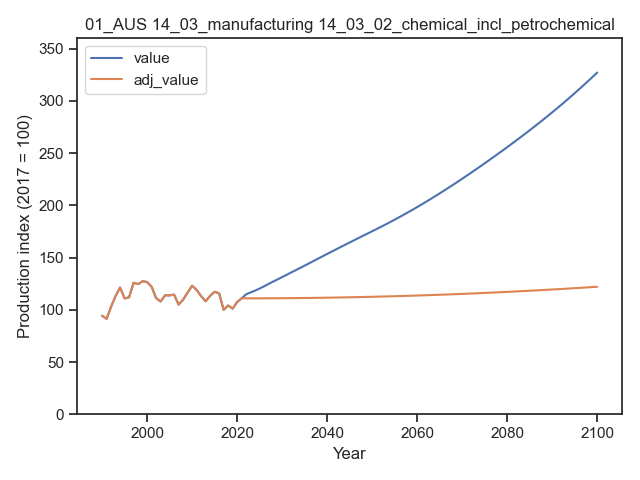
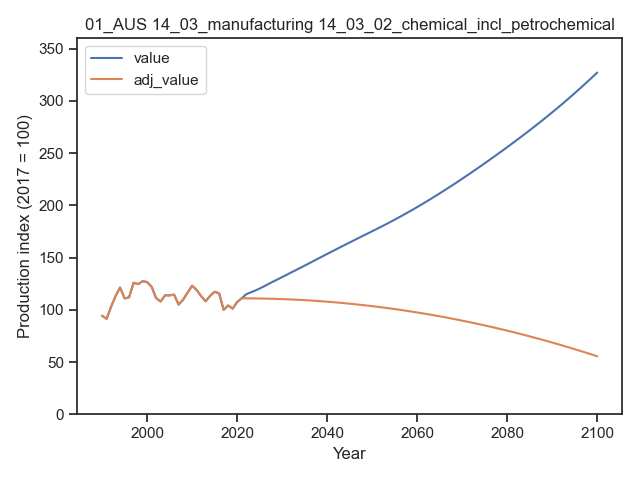
25Jan_updates

diff --git a/workflow/scripts/d3_trajectory_refine.py b/workflow/scripts/d3_trajectory_refine.py
@@ -57,7 +57,7 @@ industry_traj(economy = '01_AUS', sub1sectors = ind1[2], sub2sectors = ind2[0], 
 
 # Chemicals
 industry_traj(economy = '01_AUS', sub1sectors = ind1[2], sub2sectors = ind2[1], proj_start_year = 2021,
-              shape = 'increase', magnitude = 1.1, data = industry_interim)
+              shape = 'increase', magnitude = 0.5, data = industry_interim)
 
 # Non-ferrous metals
 industry_traj(economy = '01_AUS', sub1sectors = ind1[2], sub2sectors = ind2[2], proj_start_year = 2025,
@@ -97,7 +97,7 @@ industry_traj(economy = '01_AUS', sub1sectors = ind1[2], sub2sectors = ind2[10],
 
 # Non-energy: no adjustment
 nonenergy_traj(economy = '01_AUS', proj_start_year = 2021,
-              shape = 'increase', magnitude = 1.1, data = nonenergy_production)
+              shape = 'increase', magnitude = 0.5, data = nonenergy_production)
 
 ############################################################################################################
 # Brunei
@@ -208,8 +208,8 @@ industry_traj(economy = '05_PRC', sub1sectors = ind1[2], sub2sectors = ind2[10],
               shape = 'peak', magnitude = 0.55, apex_mag = 1.9, apex_loc = 10, data = industry_interim)
 
 # Non-energy: no adjustment
-nonenergy_traj(economy = '05_PRC', proj_start_year = 2030,
-              shape = 'decrease', magnitude = 0.3, data = nonenergy_production)
+nonenergy_traj(economy = '05_PRC', proj_start_year = 2023,
+              shape = 'peak', magnitude = 0.8, apex_mag = 1.4, apex_loc = 10, data = nonenergy_production)
 
 # HKC
 
@@ -437,61 +437,43 @@ industry_traj(economy = '09_ROK', sub1sectors = ind1[2], sub2sectors = ind2[9], 
 # Peru
 
 ############################################## Philippines #####################################################
-# Mining
-industry_traj(economy = '15_PHL', sub1sectors = ind1[0], sub2sectors = 'x', proj_start_year = 2070,
-              shape = 'decrease', magnitude = 1.3, apex_mag = 1.5, apex_loc = 20, data = industry_interim)
+# Mining: no adjustment
 
 # Construction
-industry_traj(economy = '15_PHL', sub1sectors = ind1[1], sub2sectors = 'x', proj_start_year = 2070,
-              shape = 'decrease', magnitude = 1.3, apex_mag = 1.5, apex_loc = 20, data = industry_interim) 
+industry_traj(economy = '15_RP', sub1sectors = ind1[1], sub2sectors = 'x', proj_start_year = 2025,
+              shape = 'decrease', magnitude = 3.5, data = industry_interim) 
 
-# Steel
-industry_traj(economy = '15_PHL', sub1sectors = ind1[2], sub2sectors = ind2[0], proj_start_year = 2025,
-              shape = 'decrease', magnitude = 1.05, data = industry_interim)
+# Steel: no adjustment
 
 # Chemicals
-industry_traj(economy = '15_PHL', sub1sectors = ind1[2], sub2sectors = ind2[1], proj_start_year = 2021,
-              shape = 'increase', magnitude = 1.1, data = industry_interim)
+industry_traj(economy = '15_RP', sub1sectors = ind1[2], sub2sectors = ind2[1], proj_start_year = 2024,
+              shape = 'decrease', magnitude = 4, data = industry_interim)
 
-# Non-ferrous metals
-industry_traj(economy = '15_PHL', sub1sectors = ind1[2], sub2sectors = ind2[2], proj_start_year = 2025,
-              shape = 'increase', magnitude = 1.25, data = industry_interim)
+# Non-ferrous metals: no data
 
 # Non-metallic minerals
-industry_traj(economy = '15_PHL', sub1sectors = ind1[2], sub2sectors = ind2[3], proj_start_year = 2021,
-              shape = 'decrease', magnitude = 1.6, data = industry_interim)
+industry_traj(economy = '15_RP', sub1sectors = ind1[2], sub2sectors = ind2[3], proj_start_year = 2024,
+              shape = 'decrease', magnitude = 2.5, data = industry_interim)
 
-# Transportation equipment
-industry_traj(economy = '15_PHL', sub1sectors = ind1[2], sub2sectors = ind2[4], proj_start_year = 2021,
-              shape = 'bottom', magnitude = 1.4, apex_mag = 0.9, apex_loc = 40, data = industry_interim)
+# Transportation equipment: no adjustment
 
-# Machinery
-industry_traj(economy = '15_PHL', sub1sectors = ind1[2], sub2sectors = ind2[5], proj_start_year = 2021,
-              shape = 'bottom', magnitude = 1.4, apex_mag = 0.9, apex_loc = 40, data = industry_interim)
+# Machinery: no adjustment
 
-# Food and beverages
-industry_traj(economy = '15_PHL', sub1sectors = ind1[2], sub2sectors = ind2[6], proj_start_year = 2021,
-              shape = 'bottom', magnitude = 1.4, apex_mag = 0.9, apex_loc = 40, data = industry_interim)
+# Food and beverages: no adjustment
 
-# Pulp and paper
-industry_traj(economy = '15_PHL', sub1sectors = ind1[2], sub2sectors = ind2[7], proj_start_year = 2021,
-              shape = 'bottom', magnitude = 1.4, apex_mag = 0.9, apex_loc = 40, data = industry_interim)
+# Pulp and paper: no adjustment
 
-# Wood and wood products
-industry_traj(economy = '15_PHL', sub1sectors = ind1[2], sub2sectors = ind2[8], proj_start_year = 2021,
-              shape = 'bottom', magnitude = 1.4, apex_mag = 0.9, apex_loc = 40, data = industry_interim)
+# Wood and wood products: no adjustment
 
-# Textiles
-industry_traj(economy = '15_PHL', sub1sectors = ind1[2], sub2sectors = ind2[9], proj_start_year = 2021,
-              shape = 'decrease', magnitude = 0.9, data = industry_interim)
+# Textiles: no adjustment
 
 # Non-specified
-industry_traj(economy = '15_PHL', sub1sectors = ind1[2], sub2sectors = ind2[10], proj_start_year = 2030,
+industry_traj(economy = '15_RP', sub1sectors = ind1[2], sub2sectors = ind2[10], proj_start_year = 2050,
               shape = 'decrease', magnitude = 1.8, data = industry_interim)
 
 # Non-energy: no adjustment
-nonenergy_traj(economy = '15_PHL', proj_start_year = 2021,
-               shape = 'increase', magnitude = 1.1, data = nonenergy_production)
+nonenergy_traj(economy = '15_RP', proj_start_year = 2024,
+               shape = 'decrease', magnitude = 4, data = nonenergy_production)
 
 
 # Russia
@@ -651,7 +633,58 @@ industry_traj(economy = '20_USA', sub1sectors = ind1[2], sub2sectors = ind2[9], 
 # Non-energy: no adjustment
 
 
-# VN
+############################################ VN ################################################################
+# Mining
+industry_traj(economy = '21_VN', sub1sectors = ind1[0], sub2sectors = 'x', proj_start_year = 2025,
+              shape = 'decrease', magnitude = 4, data = industry_interim)
+
+# Construction
+industry_traj(economy = '21_VN', sub1sectors = ind1[1], sub2sectors = 'x', proj_start_year = 2040,
+              shape = 'decrease', magnitude = 2, data = industry_interim) 
+
+# Steel
+industry_traj(economy = '21_VN', sub1sectors = ind1[2], sub2sectors = ind2[0], proj_start_year = 2024,
+              shape = 'decrease', magnitude = 4, data = industry_interim)
+
+# Chemicals
+industry_traj(economy = '21_VN', sub1sectors = ind1[2], sub2sectors = ind2[1], proj_start_year = 2030,
+              shape = 'decrease', magnitude = 2.5, data = industry_interim)
+
+# Non-ferrous metals: no data
+
+# Non-metallic minerals: no adjustment
+
+# Transportation equipment
+industry_traj(economy = '21_VN', sub1sectors = ind1[2], sub2sectors = ind2[4], proj_start_year = 2030,
+              shape = 'decrease', magnitude = 2.5, data = industry_interim)
+
+# Machinery
+industry_traj(economy = '21_VN', sub1sectors = ind1[2], sub2sectors = ind2[5], proj_start_year = 2030,
+              shape = 'decrease', magnitude = 2.5, data = industry_interim)
+
+# Food and beverages
+industry_traj(economy = '21_VN', sub1sectors = ind1[2], sub2sectors = ind2[6], proj_start_year = 2030,
+              shape = 'decrease', magnitude = 2.5, data = industry_interim)
+
+# Pulp and paper
+industry_traj(economy = '21_VN', sub1sectors = ind1[2], sub2sectors = ind2[7], proj_start_year = 2030,
+              shape = 'decrease', magnitude = 2.5, data = industry_interim)
+
+# Wood and wood products
+industry_traj(economy = '21_VN', sub1sectors = ind1[2], sub2sectors = ind2[8], proj_start_year = 2030,
+              shape = 'decrease', magnitude = 2.5, data = industry_interim)
+
+# Textiles
+industry_traj(economy = '21_VN', sub1sectors = ind1[2], sub2sectors = ind2[9], proj_start_year = 2030,
+              shape = 'decrease', magnitude = 2.5, data = industry_interim)
+
+# Non-specified
+industry_traj(economy = '21_VN', sub1sectors = ind1[2], sub2sectors = ind2[10], proj_start_year = 2030,
+              shape = 'decrease', magnitude = 3, data = industry_interim)
+
+# Non-energy: no adjustment
+nonenergy_traj(economy = '21_VN', proj_start_year = 2030,
+              shape = 'decrease', magnitude = 2.5, data = nonenergy_production)
 
 # Consolidate refined trajectories
 traj_overwrite_df = pd.DataFrame()

diff --git a/workflow/scripts/d5_two_scenarios.py b/workflow/scripts/d5_two_scenarios.py
@@ -36,6 +36,33 @@ nonenergy_refine2 = pd.read_csv('./data/non_energy/3_nonenergy_refine2/refined_n
 
 ##########################################################################################
 # Australia
+# Mining
+scenario_adj(economy = '01_AUS', sub1sectors = ind1[0], sub2sectors = 'x', 
+             increment = 0.02, start_year = 2024, end_year = 2040, data = industry_refine2)
+
+# Steel: Material efficiency
+scenario_adj(economy = '01_AUS', sub1sectors = ind1[2], sub2sectors = ind2[0], 
+             increment = -0.002, start_year = 2023, end_year = 2100, data = industry_refine2) 
+
+# Chemicals: Material efficiency
+scenario_adj(economy = '01_AUS', sub1sectors = ind1[2], sub2sectors = ind2[1], 
+             increment = -0.003, start_year = 2023, end_year = 2100, data = industry_refine2)
+
+# Non-ferrous metals
+scenario_adj(economy = '01_AUS', sub1sectors = ind1[2], sub2sectors = ind2[2], 
+             increment = 0.025, start_year = 2024, end_year = 2040, data = industry_refine2)
+
+# Cement (non-metallic minerals): Material efficiency
+scenario_adj(economy = '01_AUS', sub1sectors = ind1[2], sub2sectors = ind2[3], 
+             increment = -0.003, start_year = 2023, end_year = 2100, data = industry_refine2)
+
+# Pulp, paper, and printing
+scenario_adj(economy = '01_AUS', sub1sectors = ind1[2], sub2sectors = ind2[7], 
+             increment = -0.002, start_year = 2023, end_year = 2100, data = industry_refine2)
+
+# Non-energy
+scenario_adj_ne(economy = '01_AUS', 
+                increment = -0.003, start_year = 2023, end_year = 2100, data = nonenergy_refine2)
 
 ##########################################################################################
 # Canada
@@ -91,6 +118,36 @@ scenario_adj(economy = '05_PRC', sub1sectors = ind1[2], sub2sectors = ind2[7],
 
 # Non-energy
 scenario_adj_ne(economy = '05_PRC', 
+                increment = -0.003, start_year = 2023, end_year = 2100, data = nonenergy_refine2)
+
+##########################################################################################
+# Indonesia
+# Mining
+scenario_adj(economy = '07_INA', sub1sectors = ind1[0], sub2sectors = 'x', 
+             increment = 0.02, start_year = 2024, end_year = 2040, data = industry_refine2)
+
+# Steel: Material efficiency
+scenario_adj(economy = '07_INA', sub1sectors = ind1[2], sub2sectors = ind2[0], 
+             increment = -0.002, start_year = 2023, end_year = 2100, data = industry_refine2) 
+
+# Chemicals: Material efficiency
+scenario_adj(economy = '07_INA', sub1sectors = ind1[2], sub2sectors = ind2[1], 
+             increment = -0.003, start_year = 2023, end_year = 2100, data = industry_refine2)
+
+# Non-ferrous metals
+scenario_adj(economy = '07_INA', sub1sectors = ind1[2], sub2sectors = ind2[2], 
+             increment = 0.025, start_year = 2024, end_year = 2040, data = industry_refine2)
+
+# Cement (non-metallic minerals): Material efficiency
+scenario_adj(economy = '07_INA', sub1sectors = ind1[2], sub2sectors = ind2[3], 
+             increment = -0.003, start_year = 2023, end_year = 2100, data = industry_refine2)
+
+# Pulp, paper, and printing
+scenario_adj(economy = '07_INA', sub1sectors = ind1[2], sub2sectors = ind2[7], 
+             increment = -0.002, start_year = 2023, end_year = 2100, data = industry_refine2)
+
+# Non-energy
+scenario_adj_ne(economy = '07_INA', 
                 increment = -0.003, start_year = 2023, end_year = 2100, data = nonenergy_refine2)
 
 ##############################################################################################

diff --git a/workflow/scripts/d4_manual_adjust.py b/workflow/scripts/d4_manual_adjust.py
@@ -146,9 +146,7 @@ industry_adj(economy = '05_PRC',
              sub2sectors = '14_03_10_textiles_and_leather',
              data = industry_refine1)
 
-nonenergy_adj(economy = '05_PRC',
-              adjust = {2025: 0.99, 2026: 0.99, 2027: 0.99, 2028: 0.99, 2029: 0.98, 2030: 0.97},
-              data = nonenergy_refine1)
+# Non-energy: no adjustment
 
 ##################################################################
 # Japan
